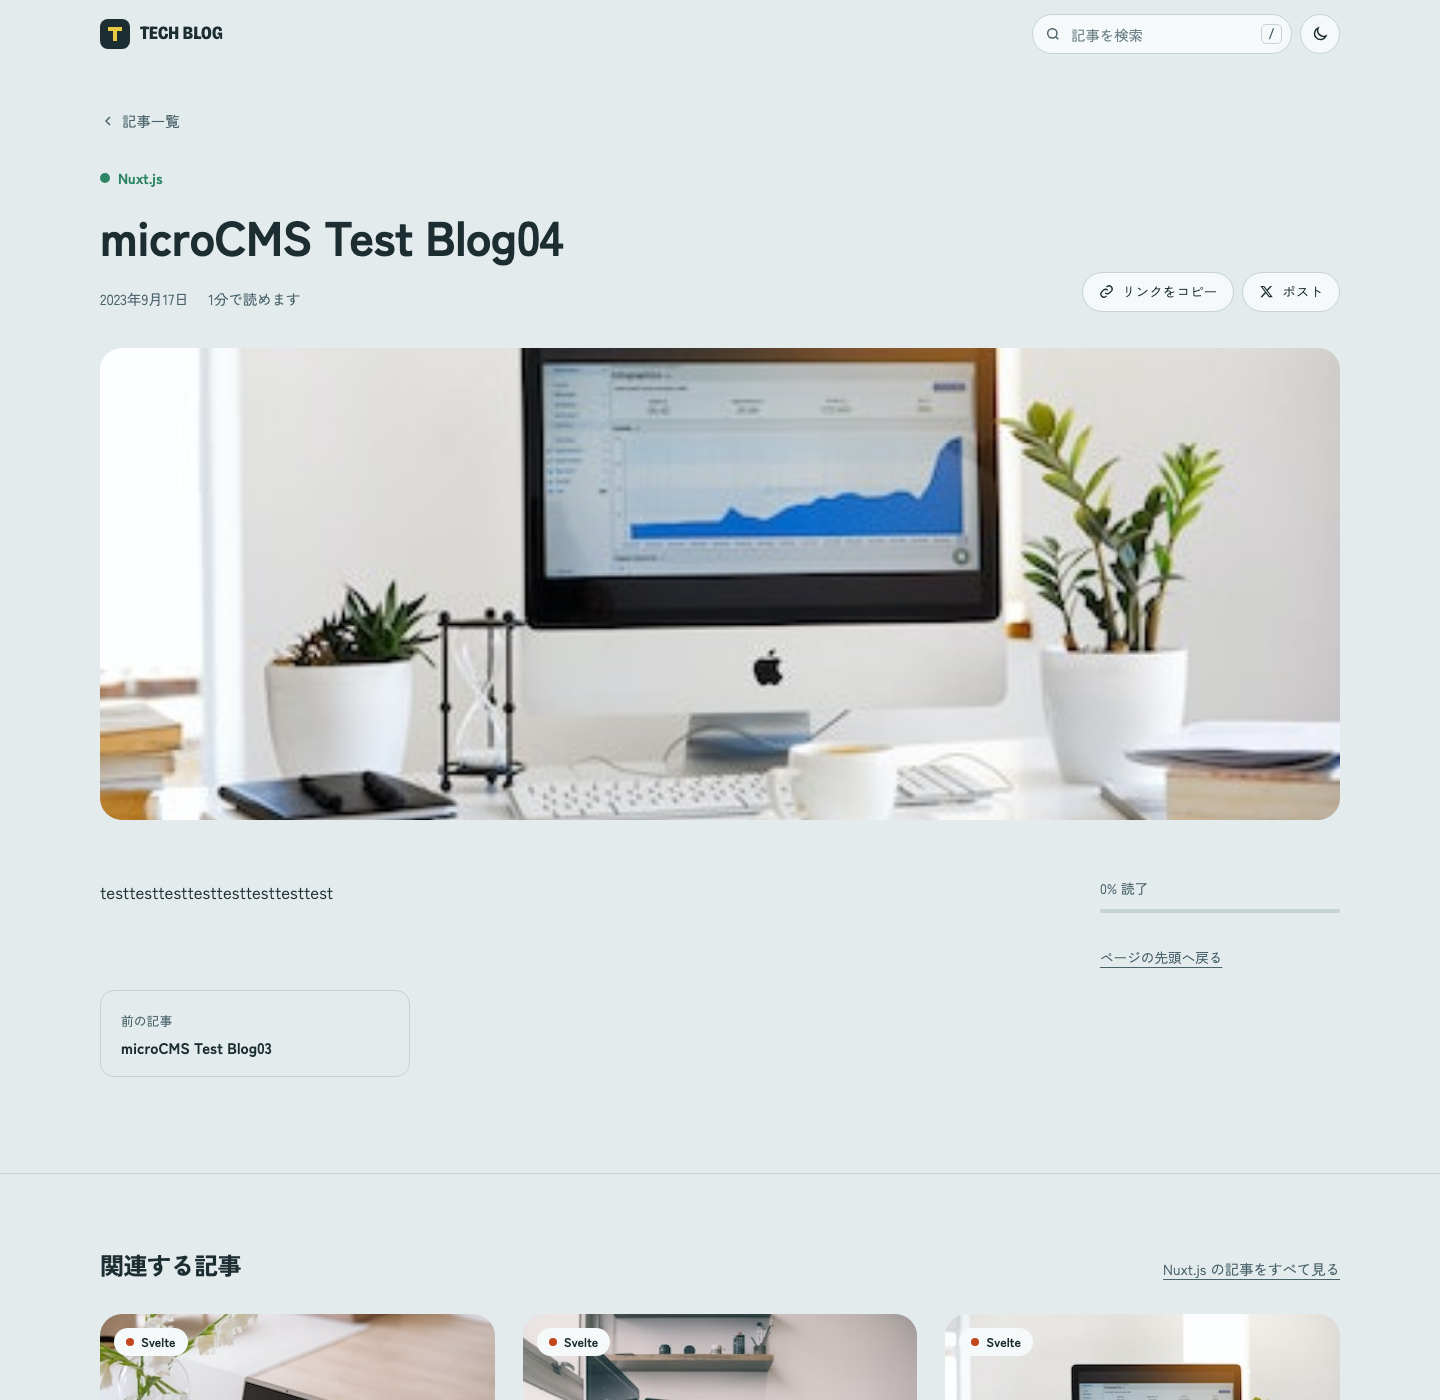
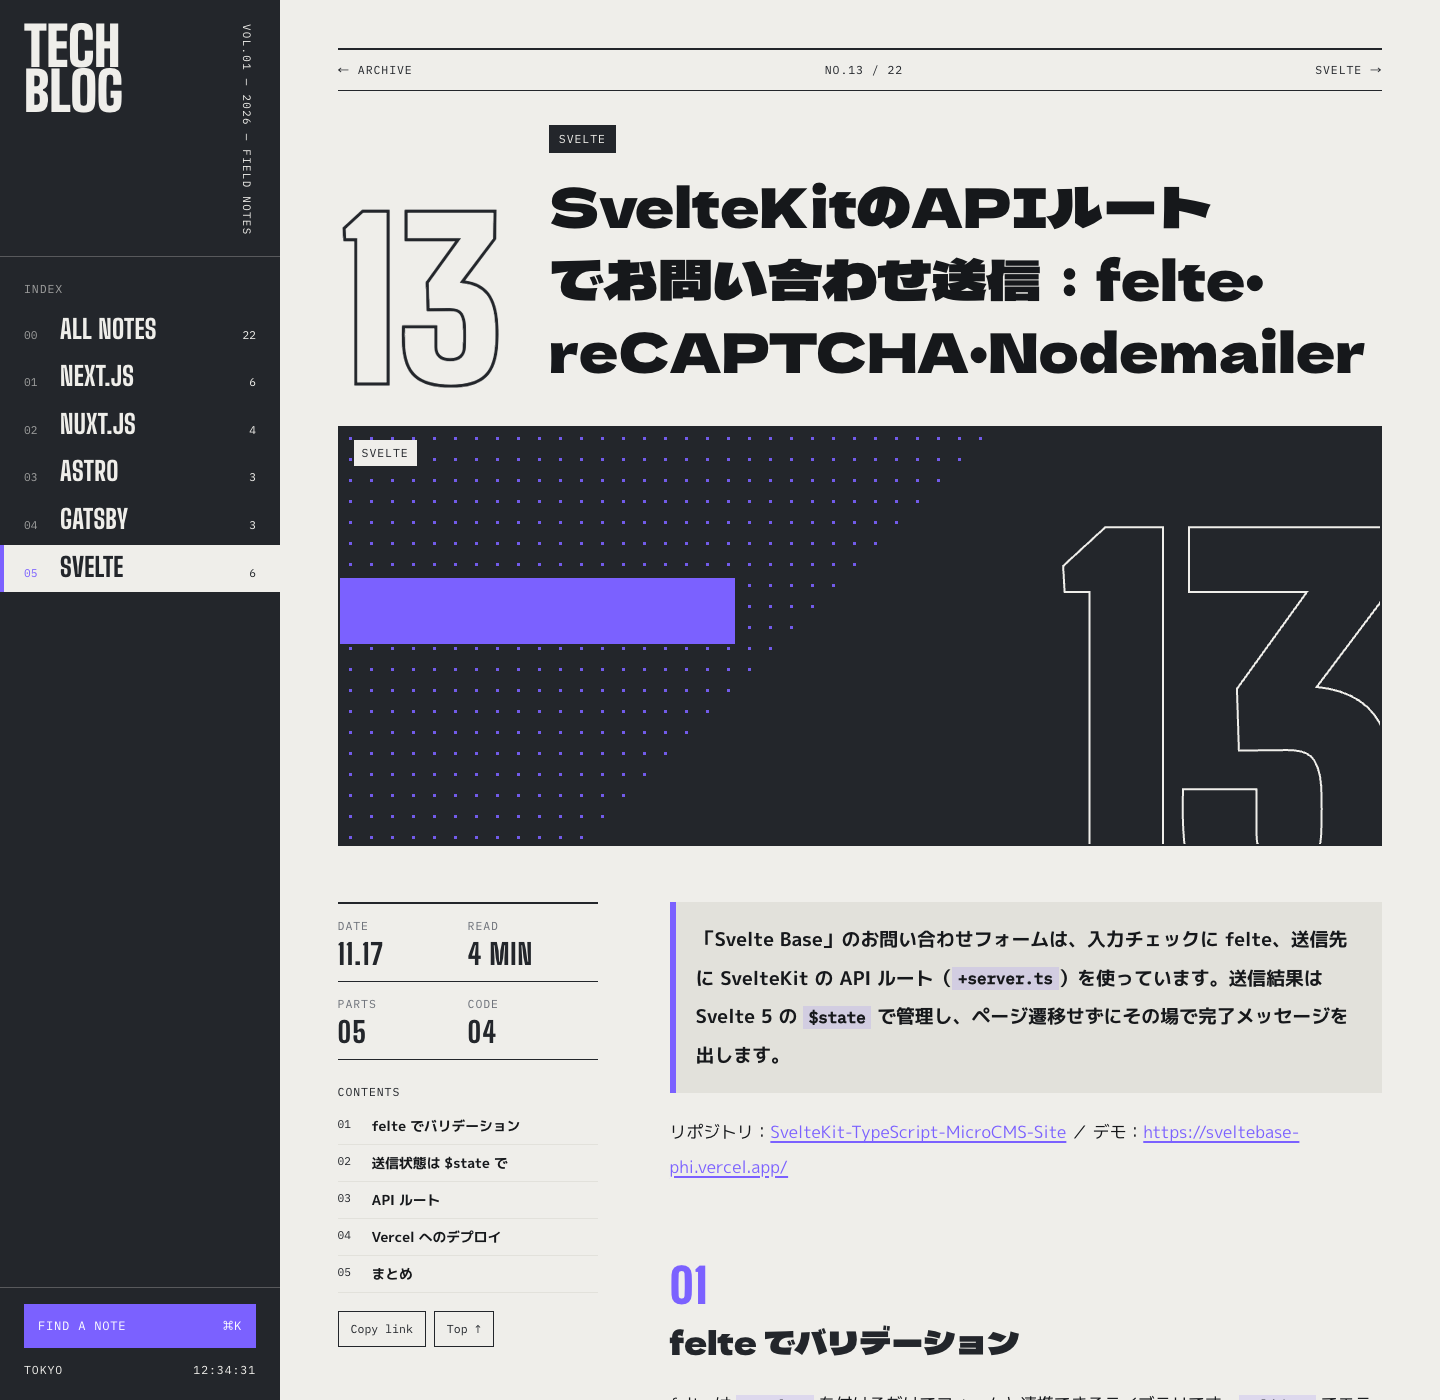
docs: README の機能説明と画面キャプチャを新デザインに更新

diff --git a/README.ja.md b/README.ja.md
@@ -6,18 +6,18 @@
 
 ![トップページ](./docs/screenshots/home.png)
 
-| 記事ページ | ダークモード・カテゴリ絞り込み | スマートフォン |
+| 記事ページ | カテゴリ絞り込み | スマートフォン |
 | :---: | :---: | :---: |
-| ![記事ページ](./docs/screenshots/article.png) | ![Svelte で絞り込んだダークモードの一覧](./docs/screenshots/home-dark.png) | ![スマートフォン表示](./docs/screenshots/mobile.png) |
+| ![記事ページ](./docs/screenshots/article.png) | ![Svelte で絞り込んだ一覧](./docs/screenshots/home-filter.png) | ![スマートフォン表示](./docs/screenshots/mobile.png) |
 
 ## 主な機能
 
-- **カテゴリ絞り込み**：記事のあるフレームワークごとにタイルを表示し、記事数を表示します。クリックで絞り込み、もう一度クリックで解除します。状態は URL（`/?cat=Astro`）に残ります。
-- **検索**：入力に合わせてタイトル・概要・カテゴリから絞り込み、一致した部分を強調します。`/` キーで検索欄に移動します。検索状態も URL（`/?q=...`）に残ります。
-- **並び替え**：新しい順と古い順を切り替えられます。
-- **記事ページ**：読んでいる見出しに追従する目次、読了率バー、コピーボタンと色分け付きのコードブロック、前後の記事、関連記事、リンクのコピーと X へのポスト。
-- **ライト／ダークテーマ**：初期状態は OS の設定に合わせます。手動で切り替えた場合はブラウザに保存します。
-- **カバー画像の自動生成**：アイキャッチ画像がない記事には、カテゴリ色の幾何学模様を表示します。
+- **サイドバーの目次**：記事のあるフレームワークごとに記事数を表示し、クリックで一覧を絞り込みます。状態は URL（`/?cat=Astro`）に残ります。
+- **アーカイブ一覧**：最新記事を大きく表示し、残りは番号付きの一覧で並べます。行にカーソルを合わせると概要とカバーが開きます。
+- **⌘K 検索**：`⌘K`（Windows は `Ctrl K`）または `/` で検索ダイアログを開き、タイトル・本文・カテゴリから探せます。矢印キーで選んで Enter で開きます。
+- **記事ページ**：日付・読了時間・見出し数・コード数のまとめ、読んでいる見出しに追従する目次、読了バー、コピーボタンと色分け付きのコードブロック、前後の記事、リンクのコピー。
+- **ページ遷移のアニメーション**：対応ブラウザでは View Transitions で一覧のカバーが記事ページへつながります。視差効果を減らす設定のときは動きを止めます。
+- **カバー画像の自動生成**：アイキャッチ画像がない記事には、記事番号とドット模様のカバーを表示します。
 - **サンプルデータ**：microCMS の環境変数が未設定のときは、同梱のサンプル記事で表示します。アカウントがなくても動作を確認できます。
 
 ## 技術構成
@@ -32,13 +32,15 @@
 /
 ├── docs/screenshots/          # README 用の画面キャプチャ
 ├── src/
-│   ├── layouts/Layout.astro   # ヘッダー・検索・テーマ切替・フッター
+│   ├── components/Cover.astro # 記事のカバー
+│   ├── layouts/Layout.astro   # サイドバー・⌘K 検索・フッター
 │   ├── lib/
 │   │   ├── microcms.ts        # microCMS クライアントと getArticles()
-│   │   ├── blog.ts            # カテゴリ・日付・カバー画像・本文の整形
+│   │   ├── blog.ts            # カテゴリ・日付・カバー・本文の整形
 │   │   └── sample-articles.ts # 環境変数が未設定のときのサンプル記事
 │   ├── pages/
 │   │   ├── index.astro        # 記事一覧
+│   │   ├── 404.astro
 │   │   └── articles/[slug].astro
 │   ├── styles/global.css
 │   └── types/article.ts       # 記事の型定義
@@ -59,7 +61,7 @@
 
 記事の URL は `/articles/{コンテンツID}` です。
 
-カテゴリの `name` を `Next`・`Nuxt`・`Astro`・`Gatsby`・`Svelte` のいずれかにすると、対応する色で表示されます。それ以外の名前でも動作し、その場合は落ち着いたグレー系の色になります。記事が 1 本以上あるカテゴリだけを表示します。カテゴリの追加や変更は `src/lib/blog.ts` の `CATEGORIES` で行います。
+カテゴリの `name` が `Next.js`・`Nuxt`・`Astro`・`Gatsby`・`Svelte` の場合は、この順で並べて表示名を整えます。それ以外の名前もそのまま表示します。記事が 1 本以上あるカテゴリだけを表示します。カテゴリの追加や変更は `src/lib/blog.ts` の `CATEGORIES` で行います。
 
 本文中の `<h2>` は自動で目次に追加され、`<pre><code>` のコードブロックにはコピーボタンが付きます。
 

diff --git a/README.md b/README.md
@@ -6,18 +6,18 @@ A static tech blog built with [Astro](https://astro.build/) and [microCMS](https
 
 ![Home page](./docs/screenshots/home.png)
 
-| Article page | Dark mode / category filter | Mobile |
+| Article page | Category filter | Mobile |
 | :---: | :---: | :---: |
-| ![Article page](./docs/screenshots/article.png) | ![Dark mode with the Svelte filter active](./docs/screenshots/home-dark.png) | ![Mobile layout](./docs/screenshots/mobile.png) |
+| ![Article page](./docs/screenshots/article.png) | ![List filtered by Svelte](./docs/screenshots/home-filter.png) | ![Mobile layout](./docs/screenshots/mobile.png) |
 
 ## Features
 
-- **Category filter**: one tile per framework that has articles, showing its article count. Click a tile to filter the list and click it again to clear the filter. The state is kept in the URL (`/?cat=Astro`).
-- **Search**: filters by title, summary, and category as you type, and highlights matches. Press `/` to focus the search box. The search state is also kept in the URL (`/?q=...`).
-- **Sort**: newest first or oldest first.
-- **Article page**: table of contents that tracks the current heading, reading progress bar, code blocks with a copy button and syntax colors, previous/next links, related articles, "copy link" and "post to X" buttons.
-- **Light and dark themes**: follows the OS setting by default. A manual choice is saved in the browser.
-- **Generated cover images**: articles without an eyecatch image get a geometric cover drawn in the category's color.
+- **Sidebar index**: one entry per framework that has articles, with its article count. Click one to filter the list. The state is kept in the URL (`/?cat=Astro`).
+- **Archive list**: the latest article is shown large and the rest are listed with numbers. Hovering a row opens its summary and cover.
+- **⌘K search**: press `⌘K` (`Ctrl K` on Windows) or `/` to open the search dialog. It searches titles, body text, and categories. Use the arrow keys to pick a result and Enter to open it.
+- **Article page**: a summary of date, reading time, section count, and code block count; a table of contents that tracks the current heading; a reading progress bar; code blocks with a copy button and syntax colors; previous/next links; and a "copy link" button.
+- **Page transitions**: in supporting browsers, View Transitions carry the cover from the list into the article page. Motion is turned off when the reduced-motion setting is on.
+- **Generated covers**: articles without an eyecatch image get a cover with the article number and a dot pattern.
 - **Sample data fallback**: if the microCMS environment variables are not set, the site uses built-in sample articles, so you can run it without an account.
 
 ## Tech stack
@@ -32,13 +32,15 @@ A static tech blog built with [Astro](https://astro.build/) and [microCMS](https
 /
 ├── docs/screenshots/          # Images used in this README
 ├── src/
-│   ├── layouts/Layout.astro   # Header, search, theme toggle, footer
+│   ├── components/Cover.astro # Article cover
+│   ├── layouts/Layout.astro   # Sidebar, ⌘K search, footer
 │   ├── lib/
 │   │   ├── microcms.ts        # microCMS client and getArticles()
-│   │   ├── blog.ts            # Categories, dates, cover images, body processing
+│   │   ├── blog.ts            # Categories, dates, covers, body processing
 │   │   └── sample-articles.ts # Fallback data used when env vars are missing
 │   ├── pages/
 │   │   ├── index.astro        # Article list
+│   │   ├── 404.astro
 │   │   └── articles/[slug].astro
 │   ├── styles/global.css
 │   └── types/article.ts       # Article type
@@ -59,7 +61,7 @@ Create a **list-type API** with the endpoint `blogs` and these fields:
 
 Article URLs are `/articles/{content ID}`.
 
-Use one of these category names to get the matching color: `Next`, `Nuxt`, `Astro`, `Gatsby`, `Svelte`. Other names still work and get a neutral color. Only categories with at least one article are shown. You can add or change categories in `CATEGORIES` in `src/lib/blog.ts`.
+If a category `name` is `Next.js`, `Nuxt`, `Astro`, `Gatsby`, or `Svelte`, it is listed in that order with a tidied display name. Other names are shown as they are. Only categories with at least one article are shown. You can add or change categories in `CATEGORIES` in `src/lib/blog.ts`.
 
 In the article body, `<h2>` headings are added to the table of contents automatically, and `<pre><code>` blocks get the copy button.
 
